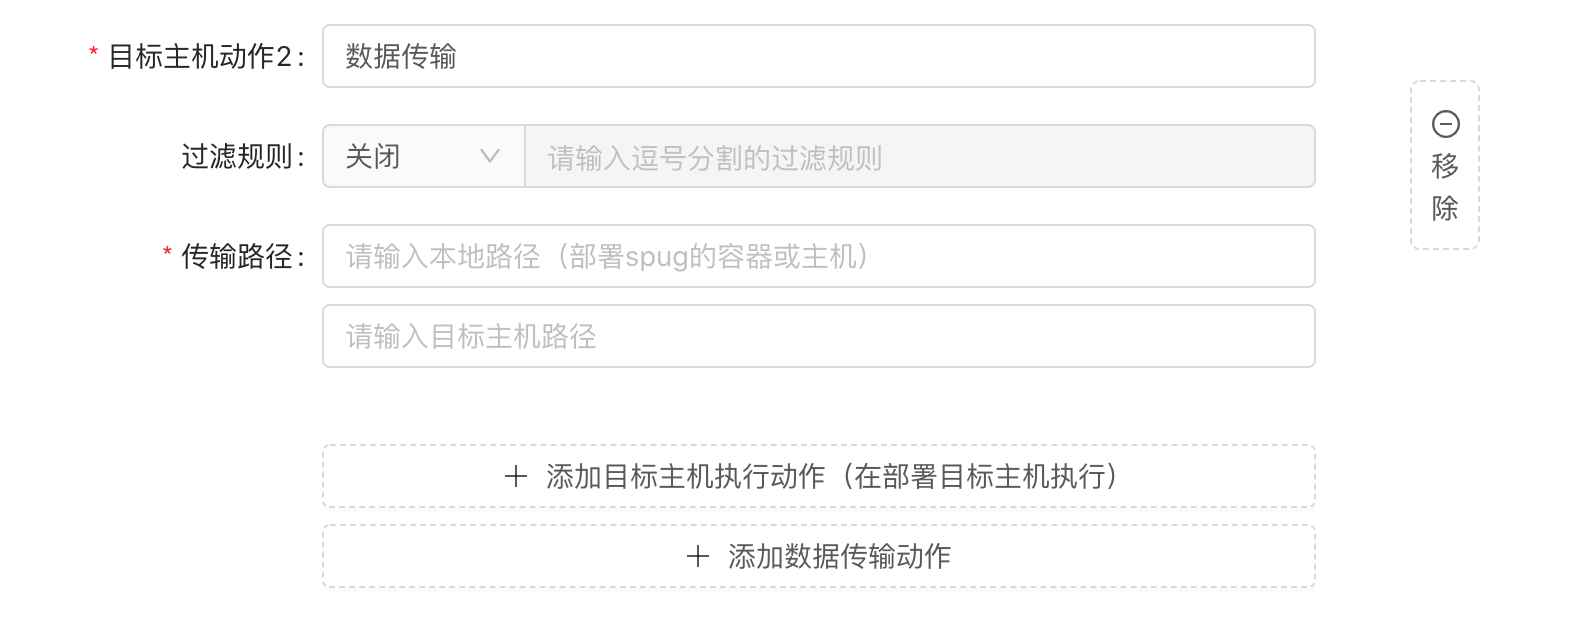
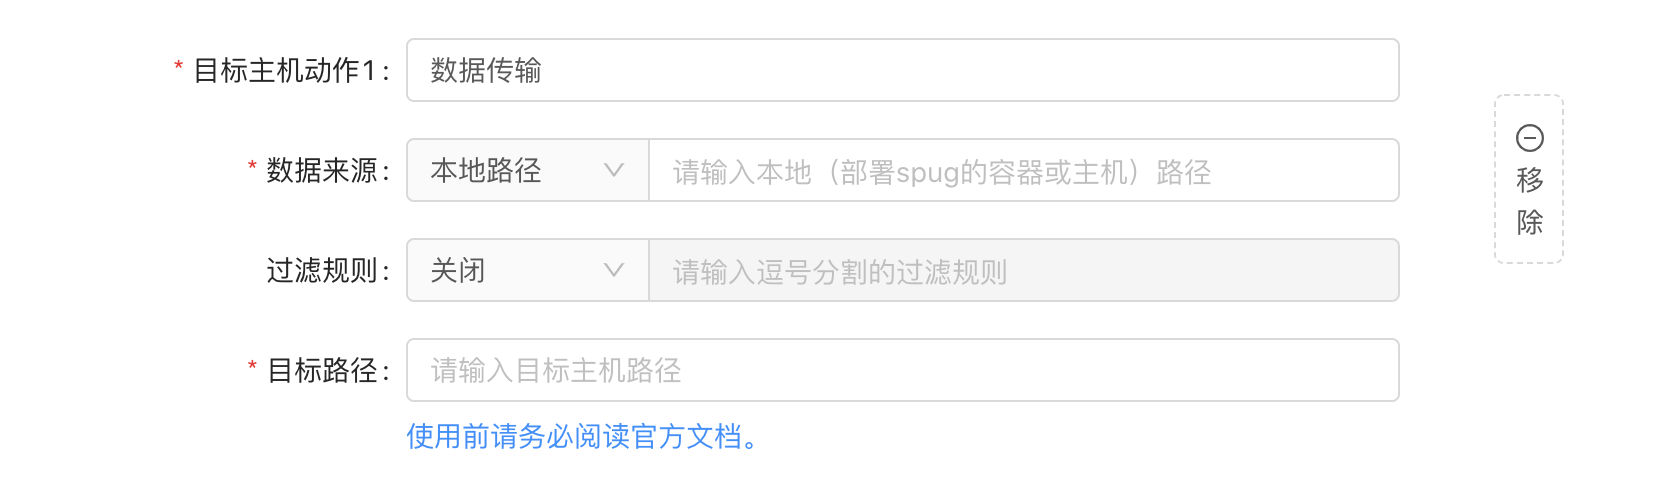
U 更新文档

diff --git a/docs/deploy-config.md b/docs/deploy-config.md
@@ -42,11 +42,18 @@ title: 发布配置
 ### 数据传输
 从 `v2.3.7` 版本开始已支持添加数据传输动作，用于把文件从部署 `Spug` 的容器或主机传输至目标主机，其页面展示效果如下：
 ![about](/images/deploy-config-transfer.png)
-- ***文件过滤*** 可以设置`包含` 和 `排除`两种规则，内容为基于本地路径的相对路径，多个路径使用逗号分割，当传输对象为文件时过滤规则将会被忽略。
-- ***本地路径*** 路径可以是文件或目录，请输入绝对路径。
-- ***目标路径*** 请保持与本地路径的类型一致，如本地路径为文件则目标路径也必须为文件，可参考以下例子。
+- **数据来源** 数据来源可以选择以下两种
+    - 本地路径：位于部署 spug 的容器或主机上，路径可以是文件或目录，请输入绝对路径。
+    - 发布时上传：在创建发布申请时上传数据。
+- **过滤规则** 仅在数据来源选择本地路径时有效，可以设置`包含` 和 `排除`两种规则，内容为基于本地路径的相对路径，多个路径使用英文逗号分割，当传输对象为文件时过滤规则将会被忽略。
+- **目标路径** 如果数据来源为发布时上传，则目标路径必须为一个文件路径（例如：`/tmp/upload.tar.gz`）, 如果数据来源为本地路径则请保持目标路径与本地路径的类型一致，如本地路径为文件则目标路径也必须为文件，可参考以下例子
 
-下面以 [Spug](https://github.com/openspug/spug) 开源项目的源代码作为例子来说明，假设源代码位于 `/data/spug` 目录下。
+当数据来源为发布时上传，需要注意以下事项：
+> 1. 目标路径必须为文件路径，例如：`/data/upload.jar`，大部分情况下还需要其他后续动作去处理上传的文件。
+> 2. 上级目录必须已存在，如上例子则 `/data` 必须为目标主机上已存在的目录。
+> 3. 每次执行该数据传输动作时将会覆盖已存在的文件。
+
+下面以 [Spug](https://github.com/openspug/spug) 开源项目的源代码作为例子来说明当数据来源为本地路径时几种典型情况，假设源代码位于 `/data/spug` 目录下。
 
 - **本地路径：`/data/spug`，目标路径：`/www/spug`，文件过滤：`关闭`**
 > 将会把部署 Spug 的容器或主机上的 `/data/spug` 目录完整传输至目标主机的 `/www/spug` 目录，特别注意，如果目标主机的 `/www/spug` 已存在，将会先执行

diff --git a/docs/practice.md b/docs/practice.md
@@ -35,7 +35,7 @@ java -jar xxx.jar
 在新版本中不可见。这种情况可以使用考虑把这些动态生成且需要持久存储的数据放在发布目录之外，通过软链接的形式链接至项目内，这样实际文件存储在一个公共的地
 方每次更新时只需要额外做一个软链接的映射就可以解决问题了。
 
-### 忽略发布过程中的报错
-默认 `Spug` 执行任何一个命令如果返回的退出状态码不为 `0` 则终止发布，这是为了最大限度的保证发布的安全性，防止未引起注意错误导致更严重的后果。你也
-可以在确保知道可能引起的后果的前提下，通过在命令的开头写上 `set +e` 来禁用这一特性。但 `Spug` 仍会对最终整个任务的执行结果有个状态码的判断，如果
-是非 `0` 会终止发布。
+### 忽略执行中的报错
+默认 `Spug` 执行任何一个命令如果返回的退出状态码不为 `0` 则终止执行（应用发布也是一样的），这是为了最大限度的保证执行的安全性，
+防止未引起注意错误导致更严重的后果。你也可以在确保知道可能引起的后果的前提下，通过在命令的开头写上 `set +e` 来禁用这一特性。
+但 `Spug` 仍会对最终整个任务的执行结果有个状态码的判断，如果是非 `0` 会返回异常状态或终止发布。

diff --git a/docs/change-log.md b/docs/change-log.md
@@ -3,6 +3,15 @@ id: change-log
 title: 更新日志
 ---
 
+## 2.3.9
+`2020-08-27`
+
+- 🌟 可以为主机设置独立的密钥 #170
+- 🌟 增加文件管理器的功能权限设置
+- 🛠 优化发布配置的环境选择自动禁用已存在配置的环境
+- 🛠 优化自定义发布申请数据上传体验
+- 🐞 修复未同步删除git仓库已删除的分支或tag的问题
+
 ## 2.3.8
 `2020-08-09`
 
